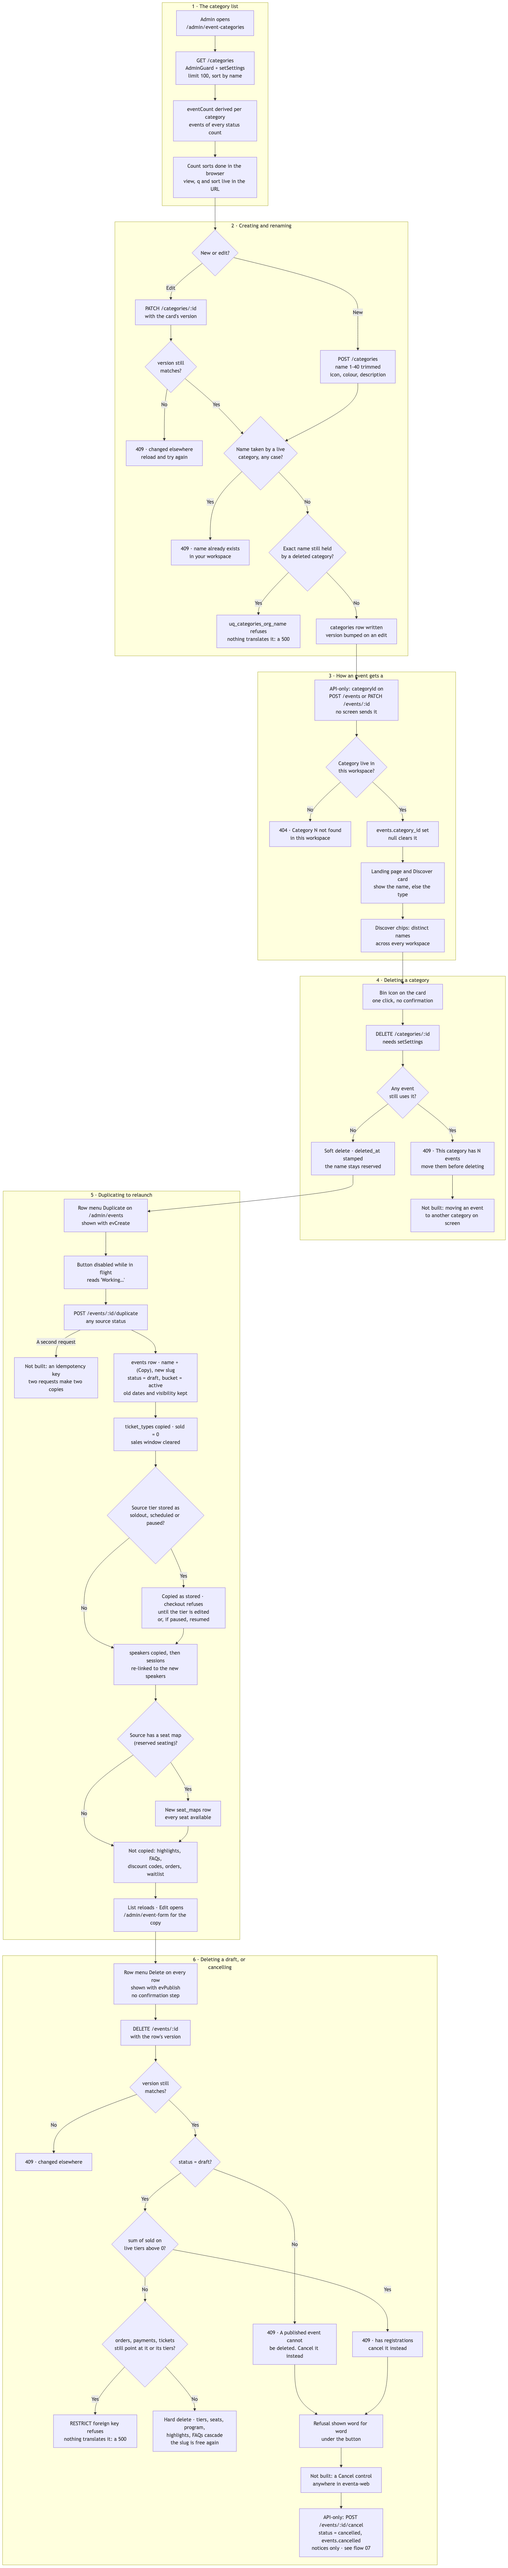
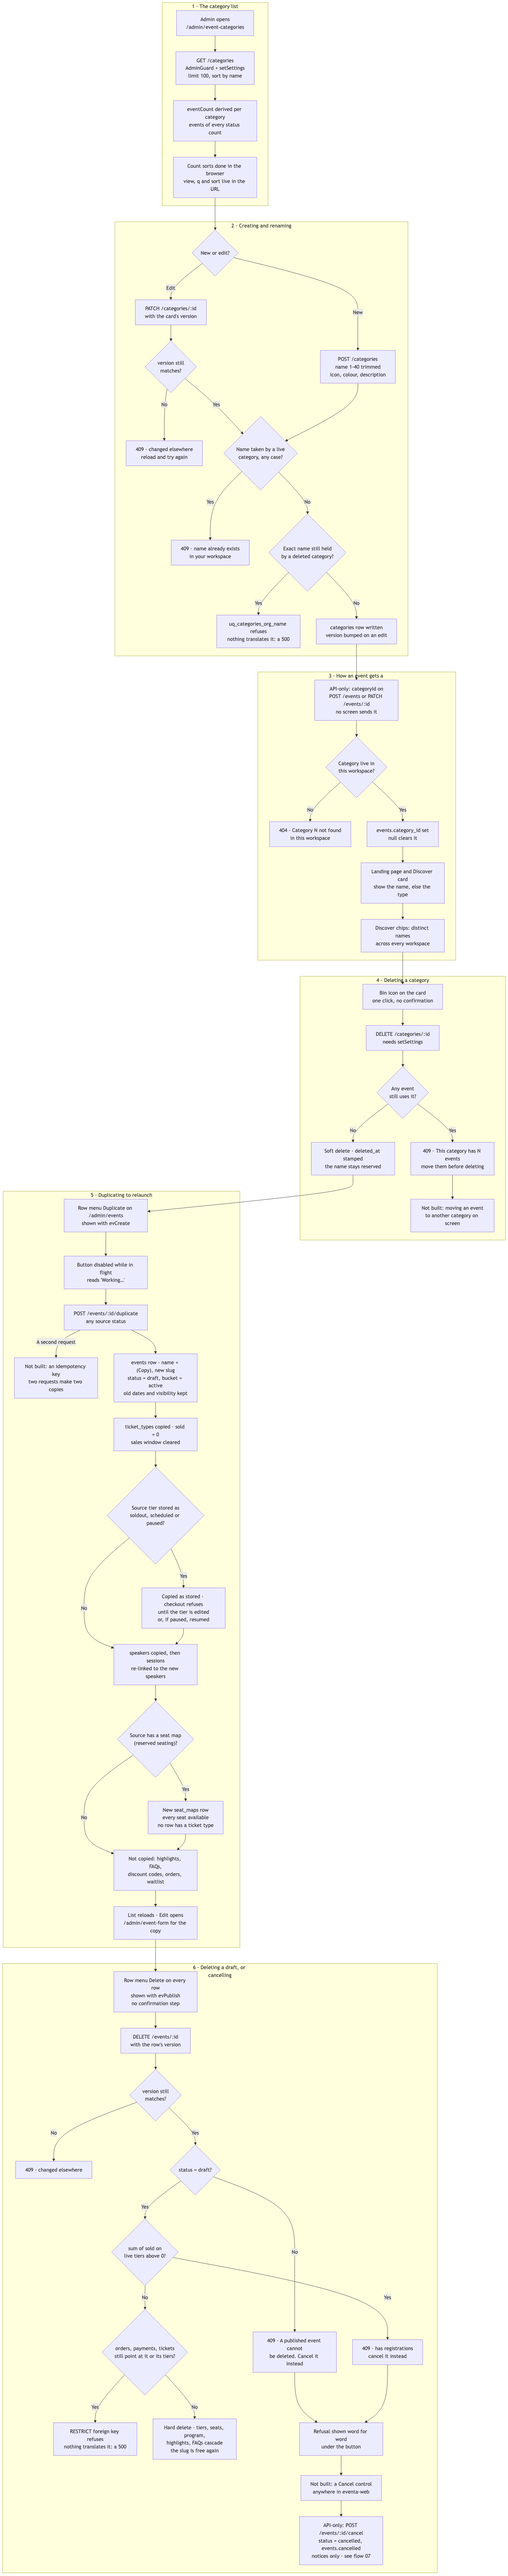
docs: say a duplicated seat map's rows have no ticket types (US-EVT-13, US-EVT-05)
Duplication copies the layout but not the rows' ticket types, so the
copy is not seat-typed: its tiers keep the copied quantities as typed
ones, and publishing it waits until Seating gives every row a type.
Flowchart 25's seat-map stage and node say so, re-rendered, and
US-EVT-13 gains a note.

diff --git a/04-architecture/flowcharts/25-manage-events.md b/04-architecture/flowcharts/25-manage-events.md
@@ -35,7 +35,7 @@ What an organizer does with events after creating them. The flow starts on `/adm
      Not carried over: `agenda_title`, `speakers_title`, `locale`, `event_highlights`, `event_faqs`, `discount_codes` and invitations.
    - **The ticket tiers.** Every live `ticket_types` row is copied with its name, `is_free`, `price_satang`, currency, admission type, `total`, per-order limits and icon. `sold` starts at its column default of 0, and `sales_start_at` and `sales_end_at` are cleared. **`status` is copied as it was stored**, not re-derived. A tier stored as `soldout`, `scheduled` or `paused` arrives that way on the copy with nothing sold and no sales window. Checkout refuses any tier that is not `onsale`, and the status is only recomputed when the organizer edits or resumes the tier. A `paused` copy stays paused through an edit, until Resume. A tier's `includes`, `is_recommended` and `badge` are not copied.
    - **Speakers, then sessions.** Live speakers are copied first, which yields a map from old speaker ids to new ones. Live sessions are copied next, and their speaker links are rebuilt through that map. Not every column comes across: a speaker's `bio`, `photo_url`, `website`, `social_links` and `rating`, and a session's `description`, are left behind.
-   - **The seat map.** When the source has a seat map (reserved seating), a new `seat_maps` row is written with the same layout, and the seats are regenerated from it, every one `available`. The source's sold and held seats do not come across.
+   - **The seat map.** When the source has a seat map (reserved seating), a new `seat_maps` row is written with the same layout, and the seats are regenerated from it, every one `available`. The source's sold and held seats do not come across. Its rows carry **no ticket types**, even where the source's did (US-EVT-05), so the copy is not seat-typed: its tiers keep the `total`s copied from the source as ordinary quantities the organizer can edit, and publishing the copy is refused with "Give every seat row a ticket type before publishing." until Seating gives every row a type, which derives the totals from the rows again (see [13](13-create-and-publish-an-event.md) steps 2 and 4).
 
    Nothing hanging off the source's id is copied: no orders, tickets, payments, attendees or waitlist entries. No outbox row or audit row is written. A failure partway through leaves the stages that already ran in place, so the result is a partial draft, and the menu shows the error. Double-submit protection exists only in the browser. The button disables and reads "Working…" while its request is in flight, but the endpoint takes no idempotency key. Two separate requests, from two tabs or from a retry after a timeout, produce two copies (`-copy` and `-copy-2`); US-EVT-13 says only one should be created. On success the menu closes and the list's loader runs again, re-reading `GET /events` and `GET /events/summary`, so the Active badge counts the copy. The copy's **Edit** link opens `/admin/event-form?id=<copy>` and continues as flow 13.
 
@@ -99,7 +99,7 @@ flowchart TD
     D7 -- "No" --> D9["speakers copied, then sessions<br/>re-linked to the new speakers"]
     D8 --> D9
     D9 --> D10{"Source has a seat map<br/>(reserved seating)?"}
-    D10 -- "Yes" --> D11["New seat_maps row<br/>every seat available"]
+    D10 -- "Yes" --> D11["New seat_maps row<br/>every seat available<br/>no row has a ticket type"]
     D10 -- "No" --> D12["Not copied: highlights, FAQs,<br/>discount codes, orders, waitlist"]
     D11 --> D12
     D12 --> D13["List reloads · Edit opens<br/>/admin/event-form for the copy"]

diff --git a/01-requirements-and-features/functional-requirements.md b/01-requirements-and-features/functional-requirements.md
@@ -506,6 +506,7 @@ _(Notes: Agenda editing is the core (Must) capability; speaker management is a l
 - Given the duplicate, when it's created, then it gets its own unique public link and any past registration open/close dates are cleared so I re-set the sales window.
 - Given the new draft, when the list refreshes, then it appears next to the original and the Active/Completed counts update.
 - Given I accidentally trigger the duplicate twice, then only one copy is created.
+_(Notes: A reserved seat map is copied without its rows' ticket types, so the copy's ticket quantities stay as copied and editable until its rows are given types again in Seating, which publishing the copy requires — see US-EVT-05.)_
 
 ### US-EVT-14 — Monitor an event's performance from its workspace  ·  **Should**
 **As an** Event Organizer, **I want** a single event workspace showing live headline numbers, its registrations, and its confirmed attendees, **so that** I can track how the event is doing and reach attendees.
